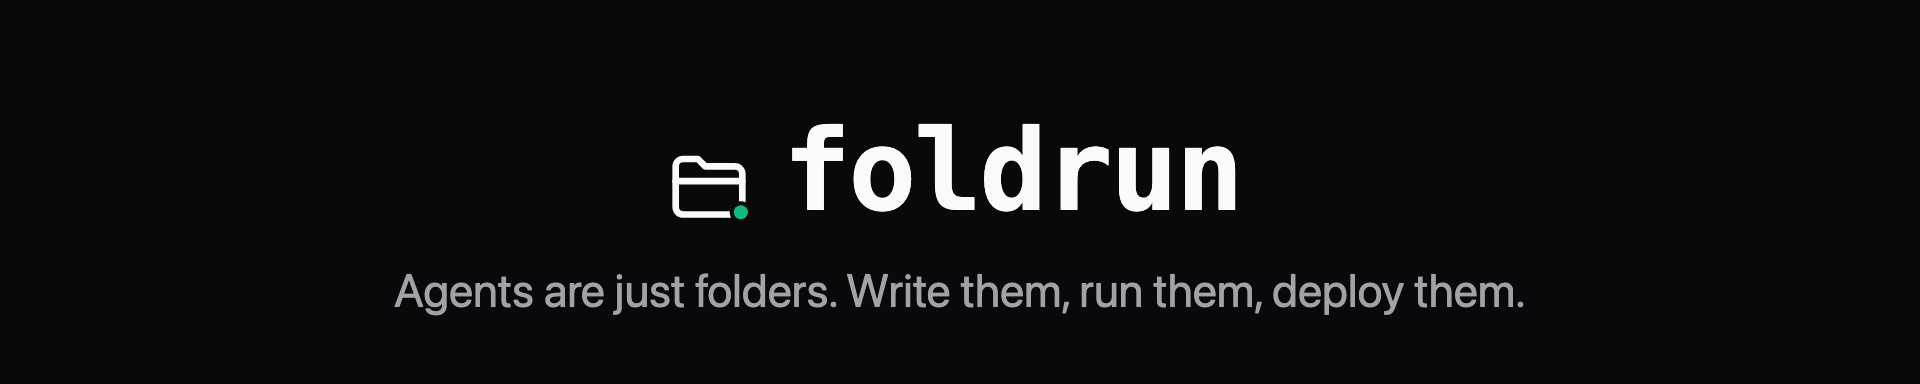
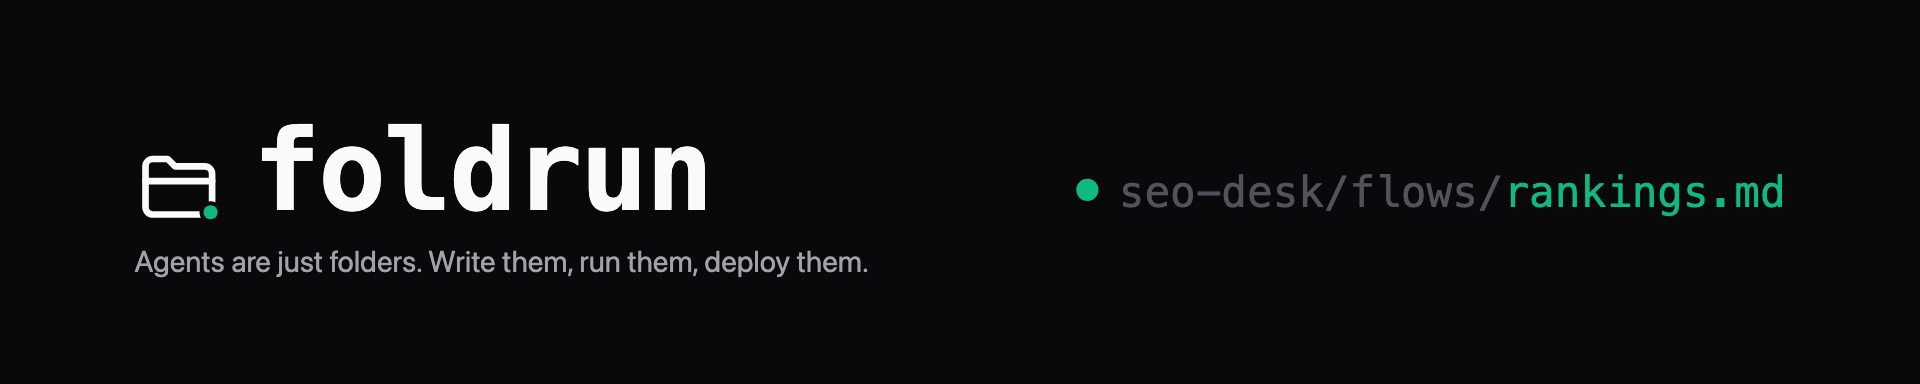
foldrun.io on every cover, a path on the short ones, no em dashes in the bios
Three changes, all asked for.

The domain now sits on the covers as its own line under the tagline, in mono
and in green. It is deliberately not inside the lockup: a wordmark is a name
and a URL is an address, and baking the address into the logo means reprinting
the logo the day the domain changes. Kept apart, the reader still gets the one
thing a cover is for, which is where to go.

The letterbox covers had no file system on them at all, because a tree will not
fit in 150 or 191 pixels. A path will: one line of the same workspace, the
running flow with its run light beside it, right-aligned opposite the lockup.
Every cover in the kit now says the same thing at whatever height it is given.

And the bios have no em dashes left. They are pasted into forms that mangle
them; commas, colons and full stops do the same work. Every bio still fits its
platform's limit.

Changed region(s): [[0.0625, 0.3125, 0.9375, 0.5938], [0.0625, 0.6562, 0.7812, 0.8125]]

diff --git a/src/lib/bios.ts b/src/lib/bios.ts
@@ -2,15 +2,18 @@
 // limit it enforces, so "does this fit" is answered on the page instead of in
 // the upload form.
 //
-// The hook is the same everywhere — "building agents has never been this
-// simple" — and every bio then says the concrete thing that makes it true: an
+// The hook is the same everywhere ("building agents has never been this
+// simple") and every bio then says the concrete thing that makes it true: an
 // agent is a folder, and it asks you before it does anything public. A claim
 // with its evidence in the next clause is the only kind that survives a
 // reader who has seen a hundred AI bios this week.
 //
 // House rules these follow, from the account's published-content doctrine:
 // never ask for business, never praise ourselves, no fear hooks. A profile bio
-// may name the product and link it — that is what the field is for.
+// may name the product and link it, which is what the field is for.
+//
+// No em dashes in this file: the bios are pasted into forms that mangle them,
+// and Matt asked for them gone. Commas, colons and full stops instead.
 
 export interface Bio {
   platform: string;
@@ -22,24 +25,24 @@ export interface Bio {
 
 export const BIOS: Bio[] = [
   { platform: "X", handle: "@foldrun1", slot: "Bio", limit: 160,
-    text: "Building agents has never been this simple. Write one as a markdown file, push the folder, and it runs on a schedule — with you approving anything that leaves." },
+    text: "Building agents has never been this simple. Write one as a markdown file, push the folder, and it runs on a schedule, with you approving anything that leaves." },
 
   { platform: "LinkedIn", handle: "foldrun", slot: "Tagline", limit: 120,
-    text: "Building agents has never been this simple — write a folder of markdown, and it runs on a schedule." },
+    text: "Building agents has never been this simple. Write a folder of markdown, and it runs on a schedule." },
 
   { platform: "LinkedIn", handle: "foldrun", slot: "About", limit: 2000,
     text: `Building agents has never been this simple.
 
-An agent is a folder. A markdown file says what it does, which tools it may use, and the rules it works under. A flow is a numbered list of those agents. No graph to drag, no framework to learn, nothing hidden in a prompt you cannot see — if you can write a note, you can build one.
+An agent is a folder. A markdown file says what it does, which tools it may use, and the rules it works under. A flow is a numbered list of those agents. No graph to drag, no framework to learn, nothing hidden in a prompt you cannot see. If you can write a note, you can build one.
 
 Push the folder and it runs in the cloud: on a schedule, a webhook, an email, or a button. Every step gets a fresh sandbox. Every run leaves a record of what it did, what it touched and what it cost. Every run has a budget, and it stops at the cap.
 
-And anything that leaves — a published article, a reply to a customer, an email to a stranger — waits for a person to say yes.
+And anything that leaves, whether a published article, a reply to a customer or an email to a stranger, waits for a person to say yes.
 
 People run it today to publish articles, answer every Google review across their locations, find and contact partners, keep a second brain that files itself, and send themselves a morning brief.` },
 
   { platform: "Facebook", handle: "foldrun", slot: "Short description", limit: 255,
-    text: "Building agents has never been this simple. Write one as a markdown file, push the folder, and it runs on a schedule in the cloud — with a person approving anything that gets published or sent." },
+    text: "Building agents has never been this simple. Write one as a markdown file, push the folder, and it runs on a schedule in the cloud, with a person approving anything that gets published or sent." },
 
   { platform: "Instagram", handle: "@foldrun", slot: "Bio", limit: 150,
     text: "Building agents has never been this simple.\nWrite a folder. It runs while you sleep.\nYou approve what leaves.\nfoldrun.io" },
@@ -50,23 +53,23 @@ People run it today to publish articles, answer every Google review across their
   { platform: "YouTube", handle: "@foldrun", slot: "Channel description", limit: 1000,
     text: `Building agents has never been this simple.
 
-An agent is a folder of markdown. Push it, and it runs in the cloud on a schedule — researching, drafting, posting, replying — and stops to ask you before anything leaves.
+An agent is a folder of markdown. Push it, and it runs in the cloud on a schedule, researching, drafting, posting, replying, and stops to ask you before anything leaves.
 
 On this channel we build real ones end to end and leave nothing out: publishing, reviews, outreach, a second brain, a morning brief. What it cost, what broke, and what we would do differently.
 
 foldrun.io` },
 
   { platform: "Reddit", handle: "u/foldrun", slot: "Profile bio", limit: 200,
-    text: "Building foldrun — agents are just folders of markdown you can read, run on a schedule and deploy. Here to learn, not to pitch." },
+    text: "Building foldrun. Agents are just folders of markdown you can read, run on a schedule and deploy. Here to learn, not to pitch." },
 
   { platform: "Subreddit", handle: "r/foldrun", slot: "Community description", limit: 500,
-    text: "Agents are just folders. A place to read, run and argue about agents written as plain markdown — flows, tools, schedules, gates, and what actually breaks when you leave one running overnight. Show what you built, and what it cost." },
+    text: "Agents are just folders. A place to read, run and argue about agents written as plain markdown: flows, tools, schedules, gates, and what actually breaks when you leave one running overnight. Show what you built, and what it cost." },
 
   { platform: "Medium", handle: "@foldrun", slot: "Bio", limit: 160,
-    text: "Building agents has never been this simple. We write about agents you can read, run and trust — and what breaks when you leave them running. foldrun.io" },
+    text: "Building agents has never been this simple. We write about agents you can read, run and trust, and what breaks when you leave them running. foldrun.io" },
 
   { platform: "Substack", handle: "foldrun", slot: "Description", limit: 250,
-    text: "Building agents has never been this simple — and this is what it is really like. Notes from running agents in production: what we shipped, what broke overnight, what it cost, and the folder you can copy." },
+    text: "Building agents has never been this simple, and this is what it is really like. Notes from running agents in production: what we shipped, what broke overnight, what it cost, and the folder you can copy." },
 
   { platform: "Indie Hackers", handle: "foldrun", slot: "Product description", limit: 300,
     text: "Building agents has never been this simple. Write an agent as a markdown file, list a few into a flow, push the folder. It runs in the cloud on a schedule, every run has a budget and a receipt, and a person approves anything that leaves." },
@@ -75,19 +78,19 @@ foldrun.io` },
     text: "Build an AI agent by writing a folder" },
 
   { platform: "Product Hunt", handle: "foldrun", slot: "Description", limit: 260,
-    text: "Building agents has never been this simple. An agent is a markdown file; a flow is a numbered list of them. Push the folder and it runs in the cloud on a schedule — fresh sandbox per step, a budget, a receipt, and your approval before anything leaves." },
+    text: "Building agents has never been this simple. An agent is a markdown file; a flow is a numbered list of them. Push the folder and it runs in the cloud on a schedule: fresh sandbox per step, a budget, a receipt, and your approval before anything leaves." },
 
   { platform: "dev.to", handle: "@foldrun", slot: "Bio", limit: 200,
     text: "Building agents has never been this simple: an agent is a folder of markdown, a flow is a numbered list of them, and it runs on a schedule with a person on every gate." },
 
   { platform: "Quora", handle: "foldrun", slot: "Description", limit: 300,
-    text: "Answers about running AI agents in production — written while building foldrun, where an agent is a folder of markdown that runs on a schedule and asks a person before anything leaves." },
+    text: "Answers about running AI agents in production, written while building foldrun, where an agent is a folder of markdown that runs on a schedule and asks a person before anything leaves." },
 
   { platform: "GitHub", handle: "foldrun-io", slot: "Org description", limit: 160,
     text: "Agents are just folders. Markdown you can read, running on a schedule, with a person on every gate." },
 
   { platform: "Eventbrite", handle: "foldrun", slot: "Organiser description", limit: 500,
-    text: "Building agents has never been this simple — and we run the sessions that prove it. Two hours, one folder of markdown, and you leave with an agent that runs on a schedule and asks you before it does anything public. Taught, not sold." },
+    text: "Building agents has never been this simple, and we run the sessions that prove it. Two hours, one folder of markdown, and you leave with an agent that runs on a schedule and asks you before it does anything public. Taught, not sold." },
 ];
 
 export const LINK = "https://foldrun.io";
